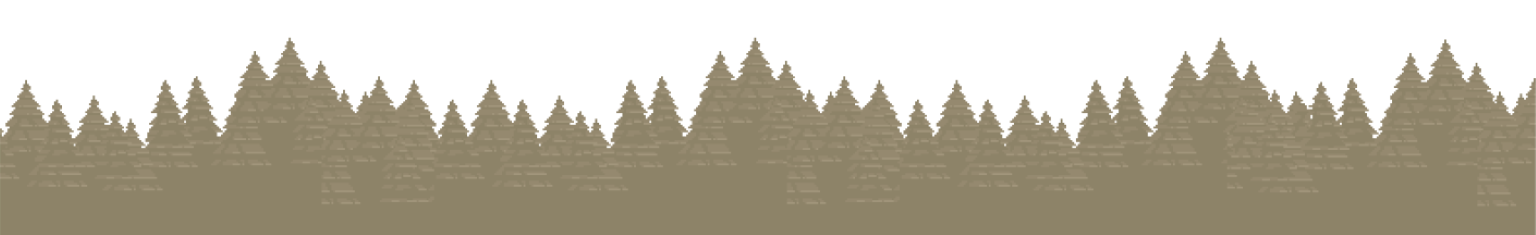
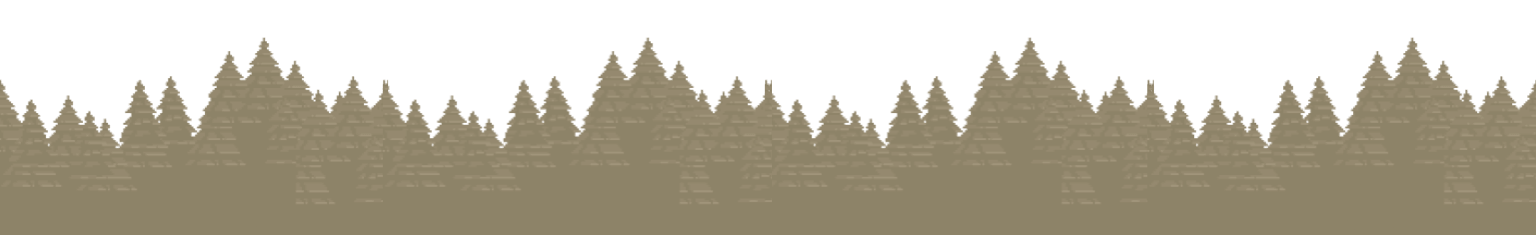
Implementamos lo funcional  del parallax-background

Changed region(s): [[0.0, 0.1787, 1.0, 0.6255]]

diff --git a/style.css b/style.css
@@ -1,11 +1,16 @@
+* {
+    margin: 0;
+    padding: 0;
+}
+
+body {
+    overflow-x: hidden;
+    overflow-y: hidden;
+}
+
 #character{
     height: 48px;
     width: 48px;
-    
-}
-
-#game-container {
-    margin-top: 400px /*temporal para poder testear el salto*/
 }
 
 #parallax-background {
@@ -15,36 +20,58 @@
 }
 
 #parallax-background div {
-    width: 1536px;
+    background-repeat: no-repeat;
+    background-size: 1536px 400px;
+    width: 100%;
     height: 100%;
+    top: 0;
+    left: 0;
+    position: absolute;
 }
 
 #parallax-background #image-0 {
-    background-image: url(sprites/Parallax-background/0.png);
+    background: url(Archivos/Parallax-background/0.png) repeat-x;
+    animation: parallax 27s linear infinite;
 }
 
 #parallax-background #image-1 {
-    background-image: url(sprites/Parallax-background/1.png);
+    background: url(Archivos/Parallax-background/1.png) repeat-x;
+    animation: parallax 25s linear infinite;
 }
 
 #parallax-background #image-2 {
-    background-image: url(sprites/Parallax-background/2.png);
+    background: url(Archivos/Parallax-background/2.png) repeat-x;
+    animation: parallax 23s linear infinite;
 }
 
 #parallax-background #image-3 {
-    background-image: url(sprites/Parallax-background/3.png);
+    background: url(Archivos/Parallax-background/3.png) repeat-x;
+    animation: parallax 21s linear infinite;
 }
 
 #parallax-background #image-4 {
-    background-image: url(sprites/Parallax-background/4.png);
+    background: url(Archivos/Parallax-background/4.png) repeat-x;
+    animation: parallax 19s linear infinite;
 }
 
 #parallax-background #image-5 {
-    background-image: url(sprites/Parallax-background/5.png);
+    background: url(Archivos/Parallax-background/5.png) repeat-x;
+    animation: parallax 17s linear infinite;
 }
 
 #parallax-background #image-6 {
-    background-image: url(sprites/Parallax-background/6.png);
+    background: url(Archivos/Parallax-background/6.png) repeat-x;
+    animation: parallax 15s linear infinite;
+}
+
+@keyframes parallax {
+    0%{
+        background-position: 0px;
+    }
+    100%{
+        background-position: -1536px;
+    }
+    
 }
 
 /*//////////////////////////////////////KEYFRAMES//////////////////////////////////////*/

diff --git a/Clases/Character.js b/Clases/Character.js
@@ -6,27 +6,27 @@ class Character {
     }
 
     idle(){
-        this.elemCharacter.style.background = `url(./sprites/Character${this.tipo}/idle.png) left center`;
+        this.elemCharacter.style.background = `url(./Archivos/Character${this.tipo}/idle.png) left center`;
         this.elemCharacter.style.animation = `idle ${1/this.speed}s steps(4) infinite`;
     }
 
     run(){
-        this.elemCharacter.style.background = `url(./sprites/Character${this.tipo}/run.png) left center`;
+        this.elemCharacter.style.background = `url(./Archivos/Character${this.tipo}/run.png) left center`;
         this.elemCharacter.style.animation = `run ${1/this.speed}s steps(6) infinite`;
     }
 
     hurt(){
-        this.elemCharacter.style.background = `url(./sprites/Character${this.tipo}/hurt.png) left center`;
+        this.elemCharacter.style.background = `url(./Archivos/Character${this.tipo}/hurt.png) left center`;
         this.elemCharacter.style.animation = `hurt ${1/this.speed}s steps(2) 1`;
     }
 
     death(){
-        this.elemCharacter.style.background = `url(./sprites/Character${this.tipo}/death.png) left center`;
+        this.elemCharacter.style.background = `url(./Archivos/Character${this.tipo}/death.png) left center`;
         this.elemCharacter.style.animation = `death 1s steps(6) 1`;
     }
 
     jump(){
-        this.elemCharacter.style.background = `url(./sprites/Character${this.tipo}/jump.png) left center`;
+        this.elemCharacter.style.background = `url(./Archivos/Character${this.tipo}/jump.png) left center`;
         this.elemCharacter.style.animation = `jump ${1/this.speed}s steps(4) 1`;
     }
 }
